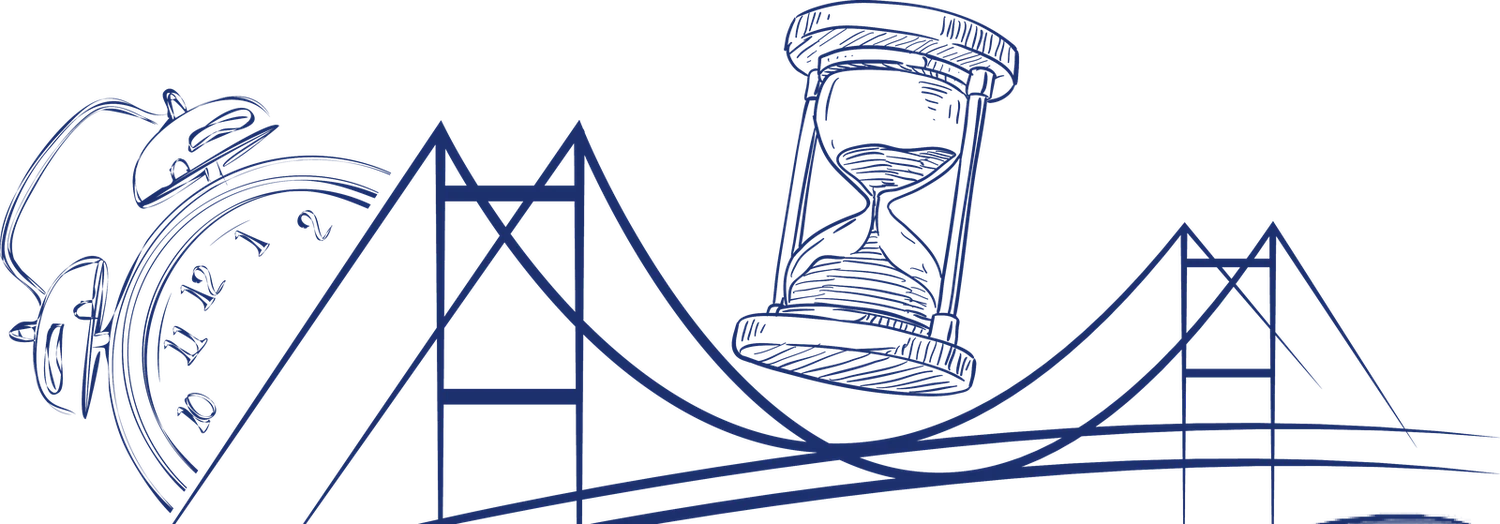
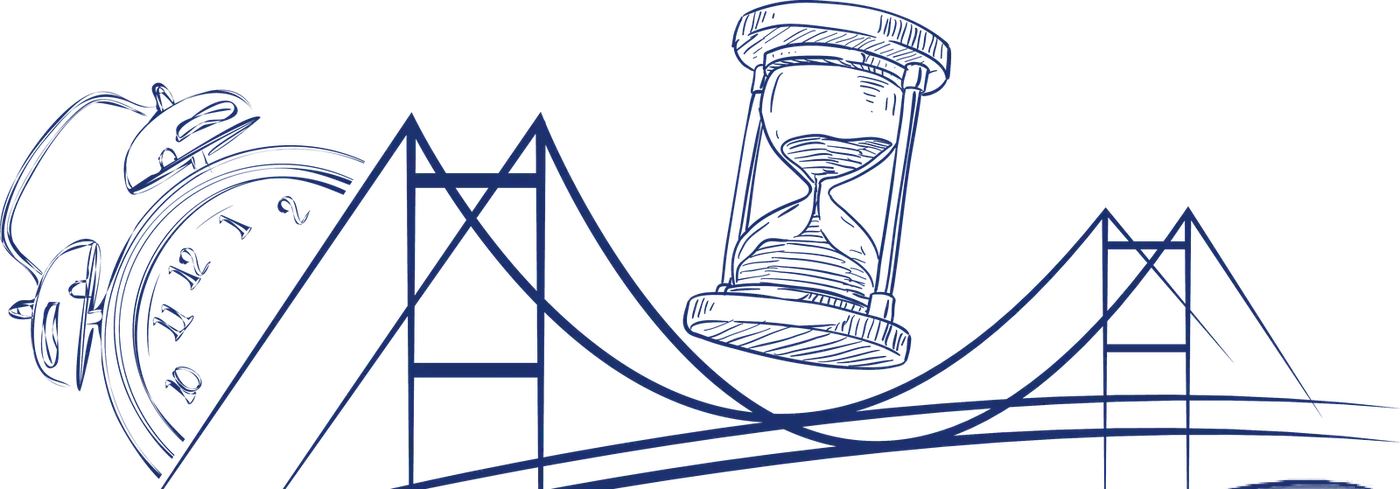
fix(a11y): contraste AA e aninhamento invalido de <p>
A acessibilidade caiu de 100 para 96 e o best-practices de 96 para 93 na
medição do build. Duas causas, as duas minhas:

1. Contraste. O turquesa da marca (--teal-2, #1497b8) dá 3,4:1 sobre branco:
   passa como texto grande, reprova em AA como rótulo pequeno. Entra
   --teal-ink (#0f7489, 5,4:1), o mesmo turquesa escurecido, nos kickers,
   na numeração dos pilares e nos eyebrows sobre fundo claro. O --teal-2
   continua onde é texto grande, traço de gráfico ou selo.

2. Erro de hidratação do React (#418). Os eyebrows das seções novas
   envolviam <Eyebrow> (que já renderiza <p>) num <Reveal as='p'>, gerando
   <p> dentro de <p>. Agora seguem a convenção das seções que já existiam:
   o próprio Reveal é o parágrafo.

Também: a marca d'água da ponte caiu de 197 KB para 140 KB — é decorativa,
a 14% de opacidade, e não precisava daquela qualidade.

Medição do build depois das correções: acessibilidade 100 (era 100),
best-practices 96 (era 96), CLS 0,001 (era 0,001), performance 98 (era 99)
numa página que dobrou de altura.

Claude-Session: https://claude.ai/code/session_01EtfBNv62qhfNy1B6rq7wU5

diff --git a/src/components/premium-v1.css b/src/components/premium-v1.css
@@ -41,6 +41,10 @@ html:has([data-org-site]) {
   --navy-2:#24409a;
   --teal:#2bc4d8;       /* azul-turquesa da ave */
   --teal-2:#1497b8;
+  /* O turquesa da marca dá 3,4:1 sobre branco — passa como texto grande, mas
+     reprova em AA para rótulo pequeno (precisa de 4,5:1). Este é o mesmo
+     turquesa escurecido até 5,4:1, para kickers, numeração e eyebrows. */
+  --teal-ink:#0f7489;
   --sky:#d8f5fa;
   --sun:#f6d44a;        /* amarelo das legendas dos reels */
   --red:#e0484f;        /* caneta de correção */
@@ -95,7 +99,7 @@ html:has([data-org-site]) {
 
   /* ---------- eyebrow / headings ---------- */
   .eyebrow{display:inline-flex;align-items:center;gap:10px;font-size:12.5px;font-weight:700;letter-spacing:.2em;text-transform:uppercase;color:var(--sky)}
-  .eyebrow--dark{color:var(--teal-2)}
+  .eyebrow--dark{color:var(--teal-ink)}
   .dot{width:8px;height:8px;border-radius:50%;background:var(--teal);box-shadow:0 0 0 4px rgba(43,196,216,.2),0 0 18px var(--teal)}
   .dot--sun{background:var(--sun);box-shadow:0 0 0 4px rgba(246,212,74,.22),0 0 18px var(--sun)}
   .sec-head{max-width:760px;margin-bottom:64px}
@@ -221,7 +225,7 @@ html:has([data-org-site]) {
   .results__side{display:flex;flex-direction:column;gap:24px}
   .card{background:#fff;border-radius:var(--r);padding:28px 30px;box-shadow:0 1px 0 rgba(255,255,255,.8) inset,0 30px 60px -30px rgba(13,26,74,.3),0 0 0 1px var(--line);transition:transform .6s var(--ease),box-shadow .6s var(--ease)}
   .card:hover{box-shadow:0 1px 0 #fff inset,0 40px 70px -28px rgba(13,26,74,.38),0 0 0 1px rgba(43,196,216,.35)}
-  .card__kicker{font-size:12px;letter-spacing:.16em;text-transform:uppercase;font-weight:800;color:var(--teal-2)}
+  .card__kicker{font-size:12px;letter-spacing:.16em;text-transform:uppercase;font-weight:800;color:var(--teal-ink)}
   .card__title{font-family:var(--serif);font-size:27px;font-weight:600;letter-spacing:-.02em;color:var(--ink);margin-top:6px;line-height:1.15}
   .evo__head{display:flex;justify-content:space-between;align-items:flex-start;gap:16px}
   .badge-up{font-weight:800;font-size:15px;color:#0d6b3e;background:#dcf7e9;border-radius:999px;padding:7px 13px}
@@ -593,7 +597,7 @@ html:has([data-org-site]) {
      Contraponto deliberado aos blocos ilustrativos: número grande, e logo
      abaixo de onde ele veio. A fonte é parte do dado, não rodapé. */
   .card--real{background:linear-gradient(160deg,#fff,#f4fbfd);border:0;box-shadow:0 1px 0 #fff inset,0 30px 60px -28px rgba(20,151,184,.45),0 0 0 1px rgba(43,196,216,.35)}
-  .real__v{font-family:var(--serif);font-size:clamp(58px,6.4vw,82px);font-weight:600;line-height:.95;letter-spacing:-.04em;color:var(--teal-2);margin:10px 0 2px;font-variation-settings:"opsz" 144,"SOFT" 30}
+  .real__v{font-family:var(--serif);font-size:clamp(58px,6.4vw,82px);font-weight:600;line-height:.95;letter-spacing:-.04em;color:var(--teal-ink);margin:10px 0 2px;font-variation-settings:"opsz" 144,"SOFT" 30}
   .real__l{font-size:17px;font-weight:700;color:var(--ink);line-height:1.3;max-width:260px}
   .real__src{margin-top:16px;padding-top:14px;border-top:1px solid var(--line);font-size:12.5px;line-height:1.5;color:var(--muted)}
 
@@ -635,7 +639,7 @@ html:has([data-org-site]) {
   .pillars{display:grid;grid-template-columns:repeat(3,1fr);gap:18px;margin-top:70px}
   .pillar{position:relative;background:#fff;border-radius:var(--r);padding:28px 26px 26px;box-shadow:0 24px 50px -32px rgba(13,26,74,.35),0 0 0 1px var(--line);transition:transform .5s var(--ease),box-shadow .5s var(--ease)}
   .pillar:hover{transform:translateY(-4px);box-shadow:0 34px 60px -30px rgba(13,26,74,.4),0 0 0 1px rgba(43,196,216,.4)}
-  .pillar__n{display:block;font-family:var(--serif);font-size:15px;font-weight:700;color:var(--teal-2);letter-spacing:.04em;margin-bottom:10px}
+  .pillar__n{display:block;font-family:var(--serif);font-size:15px;font-weight:700;color:var(--teal-ink);letter-spacing:.04em;margin-bottom:10px}
   .pillar h3{font-family:var(--serif);font-size:23px;font-weight:600;letter-spacing:-.02em;color:var(--ink);margin-bottom:8px}
   .pillar p{font-size:15px;color:var(--muted);line-height:1.55}
 
@@ -643,7 +647,7 @@ html:has([data-org-site]) {
   .trav__cols{display:grid;grid-template-columns:1.15fr .85fr;gap:28px;margin-top:70px;align-items:start}
   .panel{background:#fff;border-radius:var(--r);padding:30px 32px;box-shadow:0 24px 50px -32px rgba(13,26,74,.35),0 0 0 1px var(--line)}
   .panel+.panel{margin-top:22px}
-  .panel__kicker{font-size:12px;letter-spacing:.16em;text-transform:uppercase;font-weight:800;color:var(--teal-2)}
+  .panel__kicker{font-size:12px;letter-spacing:.16em;text-transform:uppercase;font-weight:800;color:var(--teal-ink)}
   .panel__title{font-family:var(--serif);font-size:24px;font-weight:600;letter-spacing:-.02em;color:var(--ink);margin:6px 0 18px;line-height:1.15}
   .panel__note{margin-top:16px;font-size:13.5px;line-height:1.5;color:var(--muted);padding-top:14px;border-top:1px solid var(--line)}
   .tagrow{display:flex;flex-wrap:wrap;gap:9px}

diff --git a/src/components/sections/TravessiaSection.tsx b/src/components/sections/TravessiaSection.tsx
@@ -1,6 +1,6 @@
 'use client';
 
-import { CtaButton, Eyebrow, Reveal, SectionTitle, Tick } from '../primitives';
+import { CtaButton, Reveal, SectionTitle, Tick } from '../primitives';
 import { resolveCtaHref, ctaIsExternal } from '@/content/helpers';
 import type { SiteLinks, TravessiaSection as TravessiaData } from '@/content/types';
 
@@ -33,8 +33,8 @@ export function TravessiaSection({
           src={travessia.bridge_image_url}
           alt={travessia.bridge_alt}
           aria-hidden={travessia.bridge_alt ? undefined : true}
-          width={1500}
-          height={524}
+          width={1400}
+          height={489}
           loading="lazy"
           decoding="async"
         />
@@ -44,8 +44,9 @@ export function TravessiaSection({
         <div className="trav__head">
           <header className="sec-head">
             {travessia.eyebrow && (
-              <Reveal as="p" index={0}>
-                <Eyebrow dark>{travessia.eyebrow}</Eyebrow>
+              <Reveal as="p" index={0} className="eyebrow eyebrow--dark">
+                <span className="dot" />
+                {travessia.eyebrow}
               </Reveal>
             )}
             <Reveal index={1}>

diff --git a/src/components/sections/MiguilimSection.tsx b/src/components/sections/MiguilimSection.tsx
@@ -1,6 +1,6 @@
 'use client';
 
-import { CtaButton, Eyebrow, Reveal, SectionTitle, Tick, usePauseWhenOffscreen } from '../primitives';
+import { CtaButton, Reveal, SectionTitle, usePauseWhenOffscreen } from '../primitives';
 import { resolveCtaHref, ctaIsExternal } from '@/content/helpers';
 import type { MiguilimSection as MiguilimData, SiteLinks } from '@/content/types';
 
@@ -32,8 +32,9 @@ export function MiguilimSection({
         <header className="sec-head" style={{ marginBottom: 0 }}>
           <div className="mig__head">
             {miguilim.eyebrow && (
-              <Reveal as="p" index={0}>
-                <Eyebrow dark>{miguilim.eyebrow}</Eyebrow>
+              <Reveal as="p" index={0} className="eyebrow eyebrow--dark">
+                <span className="dot" />
+                {miguilim.eyebrow}
               </Reveal>
             )}
             {miguilim.audience && (

diff --git a/src/components/sections/ServicesSection.tsx b/src/components/sections/ServicesSection.tsx
@@ -1,6 +1,6 @@
 'use client';
 
-import { CtaButton, Eyebrow, Reveal, SectionTitle } from '../primitives';
+import { CtaButton, Reveal, SectionTitle } from '../primitives';
 import { resolveCtaHref, ctaIsExternal } from '@/content/helpers';
 import type { ServicesSection as ServicesData, SiteLinks } from '@/content/types';
 
@@ -33,8 +33,9 @@ export function ServicesSection({
         <header className="svc__head">
           <div>
             {services.eyebrow && (
-              <Reveal as="p" index={0}>
-                <Eyebrow>{services.eyebrow}</Eyebrow>
+              <Reveal as="p" index={0} className="eyebrow">
+                <span className="dot" />
+                {services.eyebrow}
               </Reveal>
             )}
             <Reveal index={1}>

diff --git a/AGENTS.md b/AGENTS.md
@@ -1,0 +1,9 @@
+<!-- BEGIN:nextjs-agent-rules -->
+
+## This is NOT the Next.js you know
+
+This version has breaking changes — APIs, conventions, and file structure may all differ from your training data. Read the relevant guide in `node_modules/next/dist/docs/` (resolved from this file's directory; in monorepos the `next` package may not be visible from the repo root) before writing any code. Heed deprecation notices.
+
+This block is written and re-added by `next dev` — verify at `node_modules/next/dist/server/lib/generate-agent-files.js`. Removing it from a diff only re-creates the uncommitted change; committing it with your work keeps the tree clean.
+
+<!-- END:nextjs-agent-rules -->
